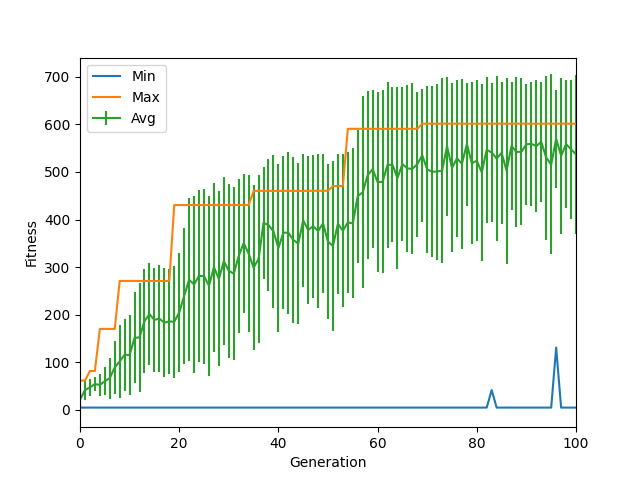
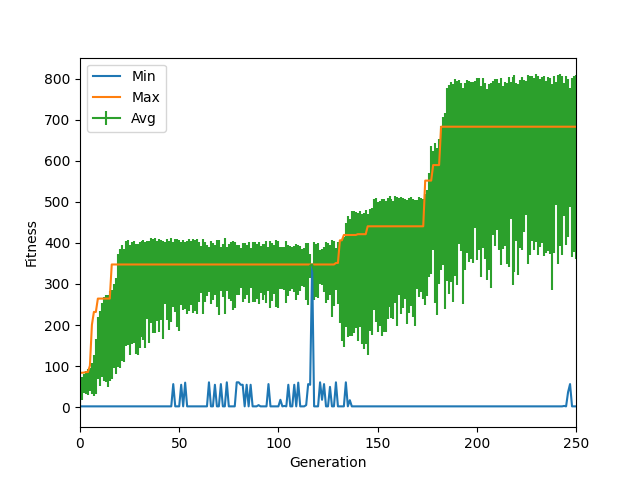
Refactored GP and reached level 26

diff --git a/run_game.py b/run_game.py
@@ -2,7 +2,7 @@ import pygame
 import time
 import numpy as np
 
-from gp_train import A, B, C, E, F
+from gp_train import A, B, D, E, F
 
 show_game = False
 game_background = None
@@ -563,13 +563,13 @@ def run(win, net=None, routine=None):
                              laser_y[0],
                              laser_x[1],
                              laser_y[1],
-                             enemy_lasers_with_distance[0][1] if len(enemy_lasers_with_distance) > 0 else 999999,
-                             enemy_lasers_with_distance[0][1] if len(enemy_lasers_with_distance) > 1 else 999999,
+                             # enemy_lasers_with_distance[0][1] if len(enemy_lasers_with_distance) > 0 else 999999,
+                             # enemy_lasers_with_distance[0][1] if len(enemy_lasers_with_distance) > 1 else 999999,
                              enemy_spaceships_x[0])
             keys = {
                 K_LEFT: output == A or output == B,
                 K_RIGHT: output == E or output == F,
-                K_SPACE: output == A or output == C or output == E
+                K_SPACE: output == B or output == D or output == F
             }
 
     if keys[K_LEFT]:

diff --git a/main.py b/main.py
@@ -117,7 +117,7 @@ if __name__ == "__main__":
             simulate_game(show_game=True, name="NEAT Spaceship!", net=network)
 
     if args.gp or args.run_best_gp:
-        primitive_set = gp.PrimitiveSetTyped("MAIN", [float] * 11, Output)
+        primitive_set = gp.PrimitiveSetTyped("MAIN", [float] * 9, Output)
         primitive_set.addPrimitive(if_then_else, [bool, float, float], float)
         primitive_set.addPrimitive(if_then_else, [bool, Output, Output], Output)
         primitive_set.addPrimitive(operator.gt, [float, float], bool)
